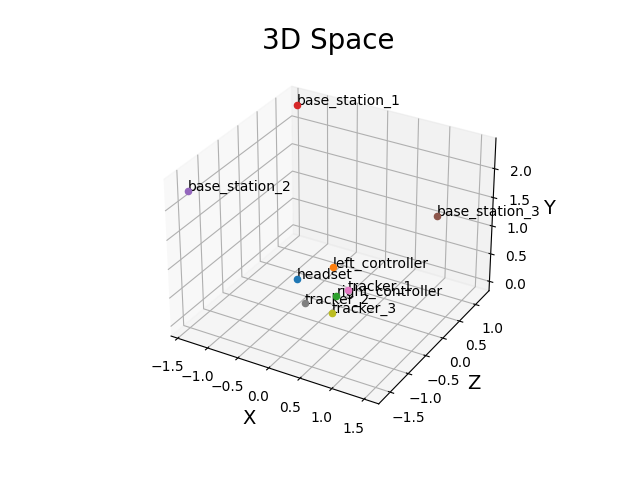
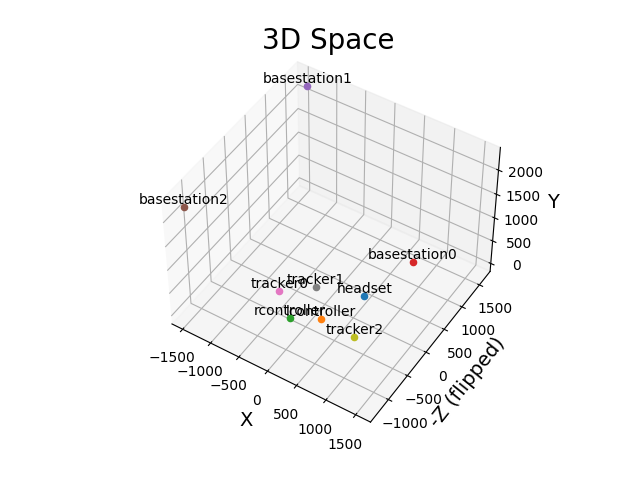
Added testing that tests the precision of the tracking

Changed region(s): [[0.2188, 0.1562, 0.875, 0.9375]]

diff --git a/testing.py b/testing.py
@@ -13,6 +13,12 @@ trackerpositions.initialize_vr_system()
 num_entries = 1000
 time_between_entries = 0.01 # seconds
 
+base_stations = True
+num_base_stations = 3
+
+trackers = True
+num_trackers = 3
+
 def get_distance(pos1, pos2):
     return ((pos1[0]-pos2[0])**2 + (pos1[1]-pos2[1])**2 + (pos1[2]-pos2[2])**2)**0.5
 
@@ -28,8 +34,8 @@ def update_plot(ax, object_name, pos_rot_tuple):
         used_object_names.append(object_name)
         ax.scatter(pos_rot_tuple[0][0], pos_rot_tuple[0][2], pos_rot_tuple[0][1], marker='o')
 
-        # plot the text
-        ax.text(pos_rot_tuple[0][0], pos_rot_tuple[0][2], pos_rot_tuple[0][1], object_name, size=10, zorder=1, color='k')
+        # plot the text, but center it on the point, but offset it above the point
+        ax.text(pos_rot_tuple[0][0], pos_rot_tuple[0][2], pos_rot_tuple[0][1], object_name, fontsize=10, horizontalalignment='center', verticalalignment='bottom', color='k', zorder=1)
 
 def main():
 
@@ -39,12 +45,19 @@ def main():
     plt.title("3D Space", fontsize=20)
 
     ax.set_xlabel('X', fontsize=14)
-    ax.set_ylabel('Z', fontsize=14)
+    ax.set_ylabel('-Z (flipped)', fontsize=14)
     ax.set_zlabel('Y', fontsize=14)
 
     package = {}
 
     def update_package(object_name, pos_rot_tuple):
+
+        # multiply by 1000 to convert from meters to millimeters (pos only)
+        pos_rot_tuple = (np.array(pos_rot_tuple[0])*1000, pos_rot_tuple[1])
+
+        # flip z axis
+        pos_rot_tuple[0][2] = -pos_rot_tuple[0][2]
+
         if object_name not in package:
             package[object_name] = {}
 
@@ -71,18 +84,18 @@ def main():
         update_package("headset", trackerpositions.get_headset_pose())
 
         # controllers
-        update_package("left_controller", trackerpositions.get_left_controller_pose())
-        update_package("right_controller", trackerpositions.get_right_controller_pose())
+        update_package("lcontroller", trackerpositions.get_left_controller_pose())
+        update_package("rcontroller", trackerpositions.get_right_controller_pose())
 
         # base stations
-        update_package("base_station_1", trackerpositions.get_base_station_pose(0))
-        update_package("base_station_2", trackerpositions.get_base_station_pose(1))
-        update_package("base_station_3", trackerpositions.get_base_station_pose(2))
+        if base_stations:
+            for j in range(num_base_stations):
+                update_package("basestation{}".format(j), trackerpositions.get_base_station_pose(j))
 
         # trackers
-        update_package("tracker_1", trackerpositions.get_tracker_pose(0))
-        update_package("tracker_2", trackerpositions.get_tracker_pose(1))
-        update_package("tracker_3", trackerpositions.get_tracker_pose(2))
+        if trackers:
+            for j in range(num_trackers):
+                update_package("tracker{}".format(j), trackerpositions.get_tracker_pose(j))
 
         time.sleep(time_between_entries)
 
@@ -90,6 +103,19 @@ def main():
 
     #save the plot as a png
     fig.savefig("3dplot.png")
+
+    # go through all package data and remove duplicates for each object
+    for object_name in package:
+        for pos_rot_key, pos_rot_values in package[object_name].items():
+            print("Evaluating object: ", object_name, " for key: ", pos_rot_key)
+            for i in range(len(pos_rot_values)-1, -1, -1):
+
+                if i != 0:
+                    for j in range(i):
+                        if np.array_equal(pos_rot_values[i], pos_rot_values[j]):
+                            print("Removing duplicate: ", pos_rot_values[i])
+                            del pos_rot_values[i]
+                            break
 
 
     # get average position and rotation of each object
@@ -114,9 +140,15 @@ def main():
 
             for pos_rot_value in pos_rot_values:
 
-                if pos_rot_value == "rotation":
+                if pos_rot_key == "rotation":
                     # if it's rotation, cap the distance at 180 degrees. If it's more than 180 degrees, subtract 360 degrees and take the absolute value
-                    package_distances[object_name][pos_rot_key].append(min(abs(pos_rot_value - package_averages[object_name][pos_rot_key]), 360 - abs(pos_rot_value - package_averages[object_name][pos_rot_key])))
+
+                    dist = get_distance(pos_rot_value, package_averages[object_name][pos_rot_key])
+
+                    if dist > 180:
+                        dist = abs(dist - 360)
+
+                    package_distances[object_name][pos_rot_key].append(dist)
 
                 else:
                     package_distances[object_name][pos_rot_key].append(get_distance(pos_rot_value, package_averages[object_name][pos_rot_key]))
